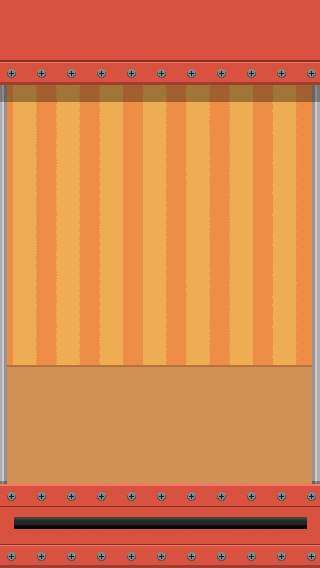
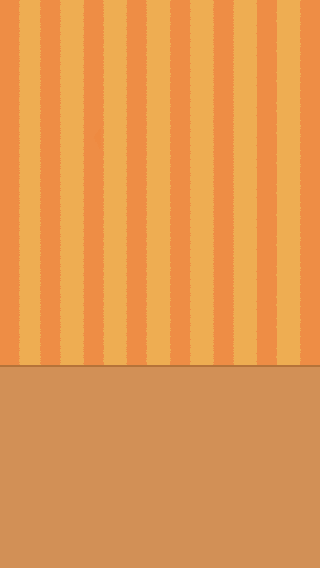
Implemented dynamic glove movement.

diff --git a/core/src/com/bopthenazi/views/screens/BTNGameScreen.java b/core/src/com/bopthenazi/views/screens/BTNGameScreen.java
@@ -6,11 +6,7 @@ import com.badlogic.gdx.Gdx;
 import com.badlogic.gdx.Screen;
 import com.badlogic.gdx.graphics.GL20;
 import com.badlogic.gdx.graphics.Texture;
-import com.badlogic.gdx.math.Interpolation;
 import com.badlogic.gdx.scenes.scene2d.Actor;
-import com.badlogic.gdx.scenes.scene2d.actions.MoveToAction;
-import com.badlogic.gdx.scenes.scene2d.actions.RunnableAction;
-import com.badlogic.gdx.scenes.scene2d.actions.SequenceAction;
 import com.badlogic.gdx.utils.Array;
 import com.badlogic.gdx.utils.viewport.FitViewport;
 import com.bopthenazi.game.BTNGame;
@@ -53,7 +49,6 @@ public class BTNGameScreen implements Screen{
 	private BTNActor bg;
 	private Score score;
 	private BTNActor topBar;
-	private BTNActor sideBars;
 	private BTNMoveableActor gloveCase;
 	
 	private float timeElapsedSinceLastNazi;
@@ -62,7 +57,7 @@ public class BTNGameScreen implements Screen{
 		
 		this.game = game;
 		this.naziContainers = new Array<NaziContainer>(MAX_NAZI_COUNT);
-		this.score = new Score(GAME_WIDTH / 2.0f + 50.0f, GAME_HEIGHT - Score.SCORE_HEIGHT);
+		this.score = new Score(GAME_WIDTH / 2.0f - 220.0f, GAME_HEIGHT - Score.SCORE_HEIGHT);
 		
 		timeElapsedSinceLastNazi = 0f;
 		
@@ -71,7 +66,6 @@ public class BTNGameScreen implements Screen{
 		slider = new Slider(GAME_WIDTH / 2.0f, BAR_OFFSET_LOWER, Slider.SLIDER_WIDTH, Slider.SLIDER_HEIGHT);
 		sliderButton = new SliderButton(BTNGameScreen.GAME_WIDTH / 2.0f, BTNGameScreen.BAR_OFFSET_LOWER, SliderButton.SLIDER_BUTTON_WIDTH, SliderButton.SLIDER_BUTTON_HEIGHT, this);
 		bg = new BTNActor(new Texture("background.png"), GAME_WIDTH / 2.0f, GAME_HEIGHT / 2.0f, GAME_WIDTH, GAME_HEIGHT);
-		sideBars = new BTNActor(new Texture("bars.png"), GAME_WIDTH / 2.0f, GAME_HEIGHT / 2.0f, GAME_WIDTH, GAME_HEIGHT);
 		glove = new Glove(GAME_WIDTH / 2.0f, GAME_HEIGHT + GAME_HEIGHT / 4.5f, Glove.GLOVE_WIDTH, Glove.GLOVE_HEIGHT, this);
 		gloveCase = new BTNMoveableActor(new Texture("mover.png"), GAME_WIDTH / 2.0f, GAME_HEIGHT - 350.0f, 162.0f, 138.6f);
 		topBar = new BTNActor(new Texture("top-bar.png"), GAME_WIDTH / 2.0f, GAME_HEIGHT - TOP_BAR_HEIGHT / 2.0f, GAME_WIDTH, TOP_BAR_HEIGHT);
@@ -81,7 +75,6 @@ public class BTNGameScreen implements Screen{
 		initializeNaziContainers();
 		gameStage.addActor(glove);
 		gameStage.addActor(gloveCase);
-		gameStage.addActor(sideBars);
 		gameStage.addActor(slider);
 		gameStage.addActor(sliderButton);
 		gameStage.addActor(topBar);
@@ -112,34 +105,12 @@ public class BTNGameScreen implements Screen{
 
 	public void notifyTouchUp() {
 		
-		float originalY = glove.getY();
-		
-		System.out.println(originalY);
-		
-		MoveToAction moveTo = new MoveToAction();
-		
-		moveTo.setPosition(glove.getX(), BAR_OFFSET_LOWER);
-		moveTo.setDuration(0.25f);
-		moveTo.setInterpolation(Interpolation.pow2);
-		
-		MoveToAction moveFrom = new MoveToAction();
-		
-		moveFrom.setPosition(glove.getX(), originalY);
-		moveFrom.setDuration(1.0f);
-		moveFrom.setInterpolation(Interpolation.linear);
-		
-		RunnableAction unlock = new RunnableAction();
-		unlock.setRunnable(new Runnable() {
+		if(glove.isReadyToDrop()){
 			
-			@Override
-			public void run() {
-				
-				sliderButton.unlock();
-			}
-		});
-		
-		SequenceAction sequence = new SequenceAction(moveTo, moveFrom, unlock);
-		glove.addAction(sequence);
+			glove.setMoving(true);
+			glove.setMovingDown(true);
+			glove.setReadyToDrop(false);
+		}
 	}
 	
 	private void activateNewNazi(int index){
@@ -298,6 +269,6 @@ public class BTNGameScreen implements Screen{
 		
 		Gdx.app.log(BTNGame.TAG, "Game Over!");
 		
-		game.setScreen(new BTNGameOverScreen(game));
+		game.setScreen(new BTNMenuScreen(game));
 	}
 }

diff --git a/core/src/com/bopthenazi/models/Glove.java b/core/src/com/bopthenazi/models/Glove.java
@@ -14,12 +14,26 @@ public class Glove extends BTNCollideableActor {
 	public static final float GLOVE_WIDTH = 192.0f;
 	public static final float GLOVE_HEIGHT = 2367.0f;
 	
+	private float downwardVelocity;
+	private float upwardVelocity;
+	
+	private boolean moving;
+	private boolean movingDown;
+	private boolean readyToDrop;
 	
 	private BTNGameScreen gameScreen;
 	
 	public Glove(float x, float y, float width, float height, BTNGameScreen game) {
 		
 		super(new Texture("glove.png"), x, y, width, height);
+		
+		// Velocity is measured in game-pixels / second.
+		this.downwardVelocity = 2500.0f;
+		this.upwardVelocity = 500.0f;
+		
+		this.moving = false;
+		this.movingDown = true;
+		this.readyToDrop = true;
 		
 		this.gameScreen = game;
 	}
@@ -29,28 +43,89 @@ public class Glove extends BTNCollideableActor {
 		
 		super.draw(batch, parentAlpha);
 	}
+	
+	@Override
+	public void act(float delta) {
+		
+		super.act(delta);
+		
+		if(moving){
+			
+			if(movingDown){
+				
+				if(!(getY() <= 0.0f)){
+				
+					setY(getY() - downwardVelocity * delta);
+				}
+				else{
+					
+					setMovingDown(false);
+				}
+			}
+			else{
+				
+				if(!(getY() >= 1163.1667f)){
+					
+					setY(getY() + upwardVelocity * delta);
+				}
+				else{
+					
+					readyToDrop = true;
+				}
+			}
+		}
+	}
+
+	/**
+	 * @return the readyToDrop
+	 */
+	public boolean isReadyToDrop() {
+		
+		return readyToDrop;
+	}
+
+	/**
+	 * @param readyToDrop the readyToDrop to set
+	 */
+	public void setReadyToDrop(boolean readyToDrop) {
+		
+		this.readyToDrop = readyToDrop;
+	}
 
 	public void notifyCollide() {
 		
-		this.clearActions();
+		this.movingDown = false;
+	}
+
+	/**
+	 * @return the moving
+	 */
+	public boolean isMoving() {
 		
-		MoveToAction moveToAction = new MoveToAction();
-		moveToAction.setPosition(getX(), 1163.1667f);
-		moveToAction.setDuration(1.0f);
-		moveToAction.setInterpolation(Interpolation.linear);
+		return moving;
+	}
+
+	/**
+	 * @param moving the moving to set
+	 */
+	public void setMoving(boolean moving) {
 		
-		RunnableAction unlock = new RunnableAction();
-		unlock.setRunnable(new Runnable() {
-			
-			@Override
-			public void run() {
-				
-				gameScreen.getSliderButton().unlock();
-			}
-		});
+		this.moving = moving;
+	}
+	
+	/**
+	 * @return the movingDown
+	 */
+	public boolean isMovingDown() {
 		
-		SequenceAction sequence = new SequenceAction(moveToAction, unlock);
+		return movingDown;
+	}
+
+	/**
+	 * @param movingDown the movingDown to set
+	 */
+	public void setMovingDown(boolean movingDown) {
 		
-		this.addAction(sequence);
+		this.movingDown = movingDown;
 	}
 }

diff --git a/core/src/com/bopthenazi/models/SliderButton.java b/core/src/com/bopthenazi/models/SliderButton.java
@@ -10,8 +10,6 @@ public class SliderButton extends BTNActor {
 	public static final float SLIDER_BUTTON_WIDTH = 169.0f;
 	public static final float SLIDER_BUTTON_HEIGHT = 169.0f;
 	
-	private boolean lock = false;
-	
 	private final BTNGameScreen gameScreen;
 	
 	public SliderButton(float x, float y, float width, float height, BTNGameScreen gameScreen) {
@@ -31,7 +29,7 @@ public class SliderButton extends BTNActor {
 			@Override
 			public void touchDragged(InputEvent event, float x, float y, int pointer) {
 				
-				if(event.getStageX() > SLIDER_BUTTON_WIDTH / 2.0f && event.getStageX() < BTNGameScreen.GAME_WIDTH - SLIDER_BUTTON_WIDTH / 2.0f && !lock){
+				if(event.getStageX() > SLIDER_BUTTON_WIDTH / 2.0f && event.getStageX() < BTNGameScreen.GAME_WIDTH - SLIDER_BUTTON_WIDTH / 2.0f){
 					
 					setX(event.getStageX() - SLIDER_BUTTON_WIDTH / 2.0f);
 					SliderButton.this.gameScreen.notifyNewX(event.getStageX());
@@ -45,18 +43,8 @@ public class SliderButton extends BTNActor {
 				
 				super.touchUp(event, x, y, pointer, button);
 				
-				if(!lock){
-					
-					lock = true;
-				
-					SliderButton.this.gameScreen.notifyTouchUp();
-				}
+				SliderButton.this.gameScreen.notifyTouchUp();
 			}
 		});
-	}
-	
-	public void unlock(){
-		
-		this.lock = false;
 	}
 }

diff --git a/core/src/com/bopthenazi/models/BTNStage.java b/core/src/com/bopthenazi/models/BTNStage.java
@@ -45,7 +45,7 @@ public class BTNStage extends Stage {
 					
 					if(nazi instanceof Nazi){
 						
-						if(((Nazi) nazi).getRect().overlaps(((Glove) a).getRect()) && !((Nazi) nazi).isHiding()){
+						if(((Nazi) nazi).getRect().overlaps(((Glove) a).getRect()) && !((Nazi) nazi).isHiding() && ((Glove) a).isMovingDown()){
 							
 							Gdx.app.log(BTNGame.TAG, "Collision detected!");
 							
